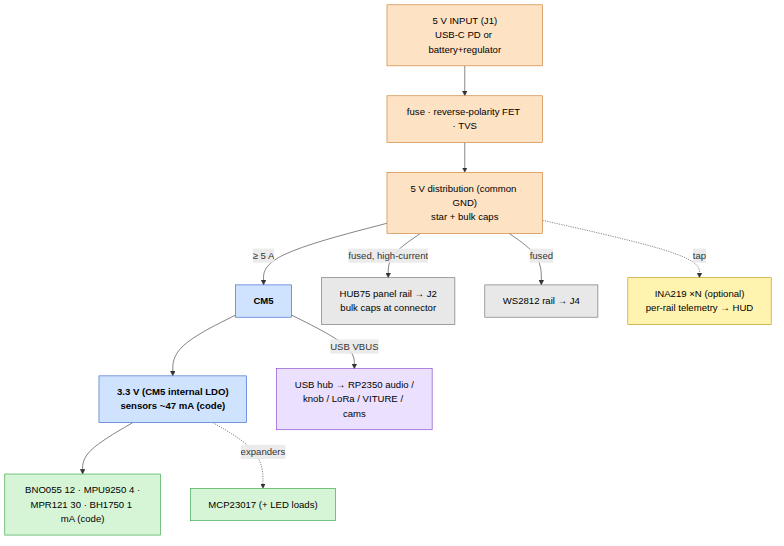
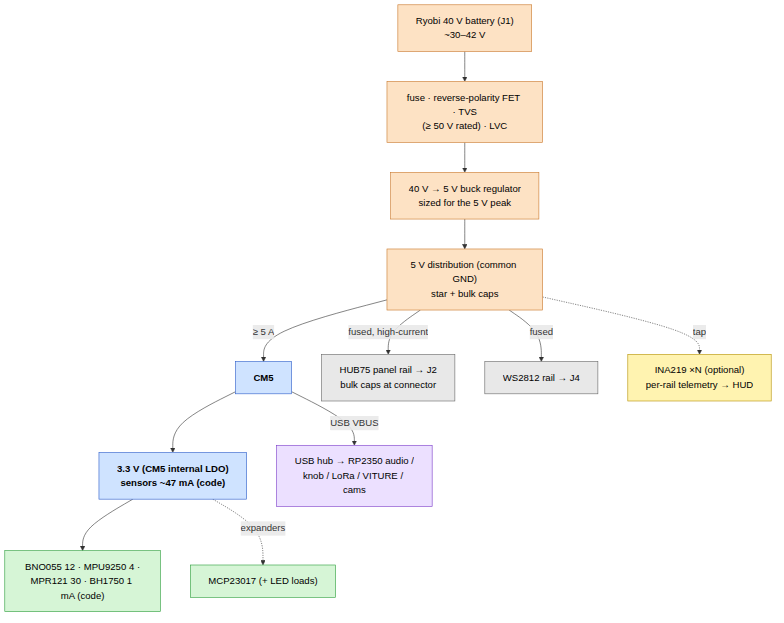
docs(carrier-board): power input = Ryobi 40V battery + 5V buck
Fold the selected power source into POWER.md: 10S ~30-42V pack through a
wide-input 40V->5V buck. Adds regulator sizing (50-150W per brightness
cap), the low input-current / fat-5V-output insight, thermal note,
Ryobi dock/adapter + low-voltage cutoff + runtime table (4/6 Ah). Fixes
protection ratings for a 40V input (>=50V FET/TVS/fuse/caps) and updates
the power-tree diagram + BOM (battery dock, buck, LVC, 40V-rated parts).

Changed region(s): [[0.0, 0.0, 0.7653, 0.9963], [0.7959, 0.467, 1.0, 0.6538]]

diff --git a/hardware/carrier-board/POWER.md b/hardware/carrier-board/POWER.md
@@ -18,9 +18,10 @@ Three 5 V domains off one input, plus 3.3 V derived on the CM5:
 
 ```mermaid
 flowchart TB
-    IN["5 V INPUT (J1)<br/>USB-C PD or battery+regulator"]:::pwr
-    IN --> PROT["fuse · reverse-polarity FET · TVS"]:::pwr
-    PROT --> BUS["5 V distribution (common GND)<br/>star + bulk caps"]:::pwr
+    IN["Ryobi 40 V battery (J1)<br/>~30–42 V"]:::pwr
+    IN --> PROT["fuse · reverse-polarity FET · TVS<br/>(≥ 50 V rated) · LVC"]:::pwr
+    PROT --> BUCK["40 V → 5 V buck regulator<br/>sized for the 5 V peak"]:::pwr
+    BUCK --> BUS["5 V distribution (common GND)<br/>star + bulk caps"]:::pwr
 
     BUS -->|"≥ 5 A"| CM5["CM5"]:::cm5
     CM5 --> R33["3.3 V (CM5 internal LDO)<br/>sensors ~47 mA (code)"]:::cm5
@@ -102,20 +103,61 @@ Per 64×32 P2.5 panel @ 5 V:
 software brightness cap, or **≥ 20 A** for uncapped full-white panels. Give
 HUB75 its own high-current feed; don't push 16 A through the CM5 rail.
 
-## Input options (it's a helmet — mind the current)
+## Input — Ryobi 40 V battery + 5 V regulator (selected)
 
-| Source | Reality |
-|--------|---------|
-| **USB-C PD** | 5 V/3 A (15 W) is *not enough* with panels. Use a **PD trigger to 9–20 V** + a buck to 5 V, or PD 5 V only for a brightness-capped build. |
-| **Battery pack (recommended)** | 2S–3S Li-ion (7.4–11.1 V) + a **5 V buck rated for the peak** (≥ 10–20 A). Higher pack voltage = lower input current = thinner wiring. |
-| **Single-cell power bank** | Can't sustain 16 A @ 5 V — only viable with a hard brightness cap / few panels. |
+Powered from a **Ryobi 40 V pack** (10S Li-ion: ~30 V empty → 36 V nominal →
+~42 V full) through a **step-down (buck) regulator to 5 V**. This is a strong
+choice for this load — high pack voltage means low *input* current, so the heavy
+amps only live on the short 5 V output side.
 
-> A boost from 1S Li-ion to 5 V at >10 A is impractical; prefer a **buck from a
-> higher-voltage pack**. Account for buck efficiency (~90%) in pack sizing.
+### Regulator selection (the critical part)
+- **Wide input range:** must accept ~30–42 V; spec the converter for **≥ 50 V
+  input** for margin (transients, full charge).
+- **Output power = your 5 V peak:** a 42 V → 5 V buck must supply the full board
+  draw. From the budget that's **~50 W typical (cap brightness)** or up to
+  **~120 W full-white** (24 A @ 5 V). Size the converter accordingly:
+  - Brightness-capped build → a **5 V / 10–15 A (50–75 W)** buck.
+  - Uncapped full-white panels → a **5 V / 25–30 A (120–150 W)** buck.
+- **Input current is small:** 120 W ÷ 40 V ÷ ~0.9 eff ≈ **~3.3 A** on the
+  battery side → input wiring can be **16–18 AWG**; the **5 V output** is where
+  the 20 A lives, so put the regulator **close to the panels** and keep the 5 V
+  run fat and short.
+- **Thermal:** at ~90 % efficiency a 120 W converter dumps **~12 W** as heat —
+  heatsink it and give it airflow.
+
+### Battery interface & safety
+- **Dock/adapter:** mount via a Ryobi 40 V tool-side dock (3D-printable mounts +
+  contacts, or an aftermarket adapter). Connect **B+ / B−**; the large center
+  contacts carry current.
+- **Low-voltage cutoff:** the pack's internal BMS protects the cells, but
+  behavior varies — add a **low-voltage cutoff / battery monitor** (~3.0 V/cell,
+  ~30 V pack) so the HUD shuts down gracefully rather than relying on the pack
+  folding under load. Surface pack voltage via INA219 / an ADC divider.
+- **Fuse the battery feed** right at the dock for the pack's fault current.
+
+### Runtime (≈ pack Wh ÷ load)
+| Pack | Energy | Typical (~50 W) | Full-white (~120 W) |
+|------|-------:|----------------:|--------------------:|
+| 4.0 Ah | ~144 Wh | ~2.5–3 h | ~1.1 h |
+| 6.0 Ah | ~216 Wh | ~4 h | ~1.7 h |
+
+> Energy ≈ Ah × ~36 V nominal; usable is a bit less after the buck (~90 %) and
+> the low-voltage cutoff.
+
+### Why this beats the alternatives here
+| Source | vs. the 40 V plan |
+|--------|-------------------|
+| USB-C PD 5 V/3 A | far too little (15 W) for panels |
+| 1S Li-ion + boost | impractical to boost to 5 V at >10 A |
+| **Ryobi 40 V + buck** | ✅ low input current, high capacity, hot-swappable packs |
 
 ## Protection & sequencing
 
-- **Input:** fuse/polyfuse + reverse-polarity P-FET + TVS (REQ R2.1).
+- **Input is now 40 V** — rate input-side protection for **≥ 50 V**: the fuse,
+  reverse-polarity P-FET (VDS ≥ 60 V), and TVS (standoff ~45 V) must be
+  battery-voltage parts, **not** the 5 V-class parts used downstream. The buck's
+  input cap must also be ≥ 50 V.
+- **Input:** fuse + reverse-polarity FET + TVS at the battery dock (REQ R2.1).
 - **Per rail:** fuse the HUB75 and WS2812 rails (R2.3/R2.4); consider **e-fuses**
   (TPS259x, REQ N3) for latch-off short protection.
 - **Bulk capacitance:** ≥ 1000 µF at the HUB75 connector, 470–1000 µF on CM5 and

diff --git a/hardware/carrier-board/BOM.md b/hardware/carrier-board/BOM.md
@@ -18,10 +18,12 @@ with the default sensor set.
 
 | # | Part | Example P/N | Qty | Req | Notes |
 |---|------|-------------|-----|-----|-------|
-| 3 | 5 V input connector | XT30 / barrel / screw term | 1 | M2.1 | Main 5 V in |
-| 4 | Input fuse / polyfuse | per current budget | 1 | M2.1 | |
-| 5 | Reverse-polarity P-FET | e.g. DMP3098L / SiR | 1 | M2.1 | Ideal-diode style |
-| 6 | TVS diode (5 V) | SMBJ5.0A | 1 | M2.1 | Transient clamp |
+| 3 | Battery dock + connector | Ryobi 40 V tool-side mount + XT60 | 1 | M2.1 | ~30–42 V input; B+/B− |
+| 3b | **40 V → 5 V buck regulator** | sized for 5 V peak (10–30 A) | 1 | M2.2 | wide-input ≥50 V; heatsinked. See POWER.md |
+| 3c | Low-voltage cutoff / monitor | ~30 V (3.0 V/cell) | 1 | M2.1 | graceful shutdown / cell safety |
+| 4 | Input fuse | per pack fault current | 1 | M2.1 | at the battery dock |
+| 5 | Reverse-polarity P-FET | VDS ≥ 60 V | 1 | M2.1 | rated for 40 V input |
+| 6 | TVS diode (input) | ~45 V standoff (e.g. SMBJ40A) | 1 | M2.1 | 40 V transient clamp |
 | 7 | Bulk cap, CM5 rail | 470–1000 µF, low-ESR | 1–2 | M2.2 | |
 | 8 | Bulk cap, HUB75 rail | ≥ 1000 µF | 1+ | M2.3 | At panel connector |
 | 9 | Bulk cap, WS2812 rail | 470–1000 µF | 1 | M2.4 | |